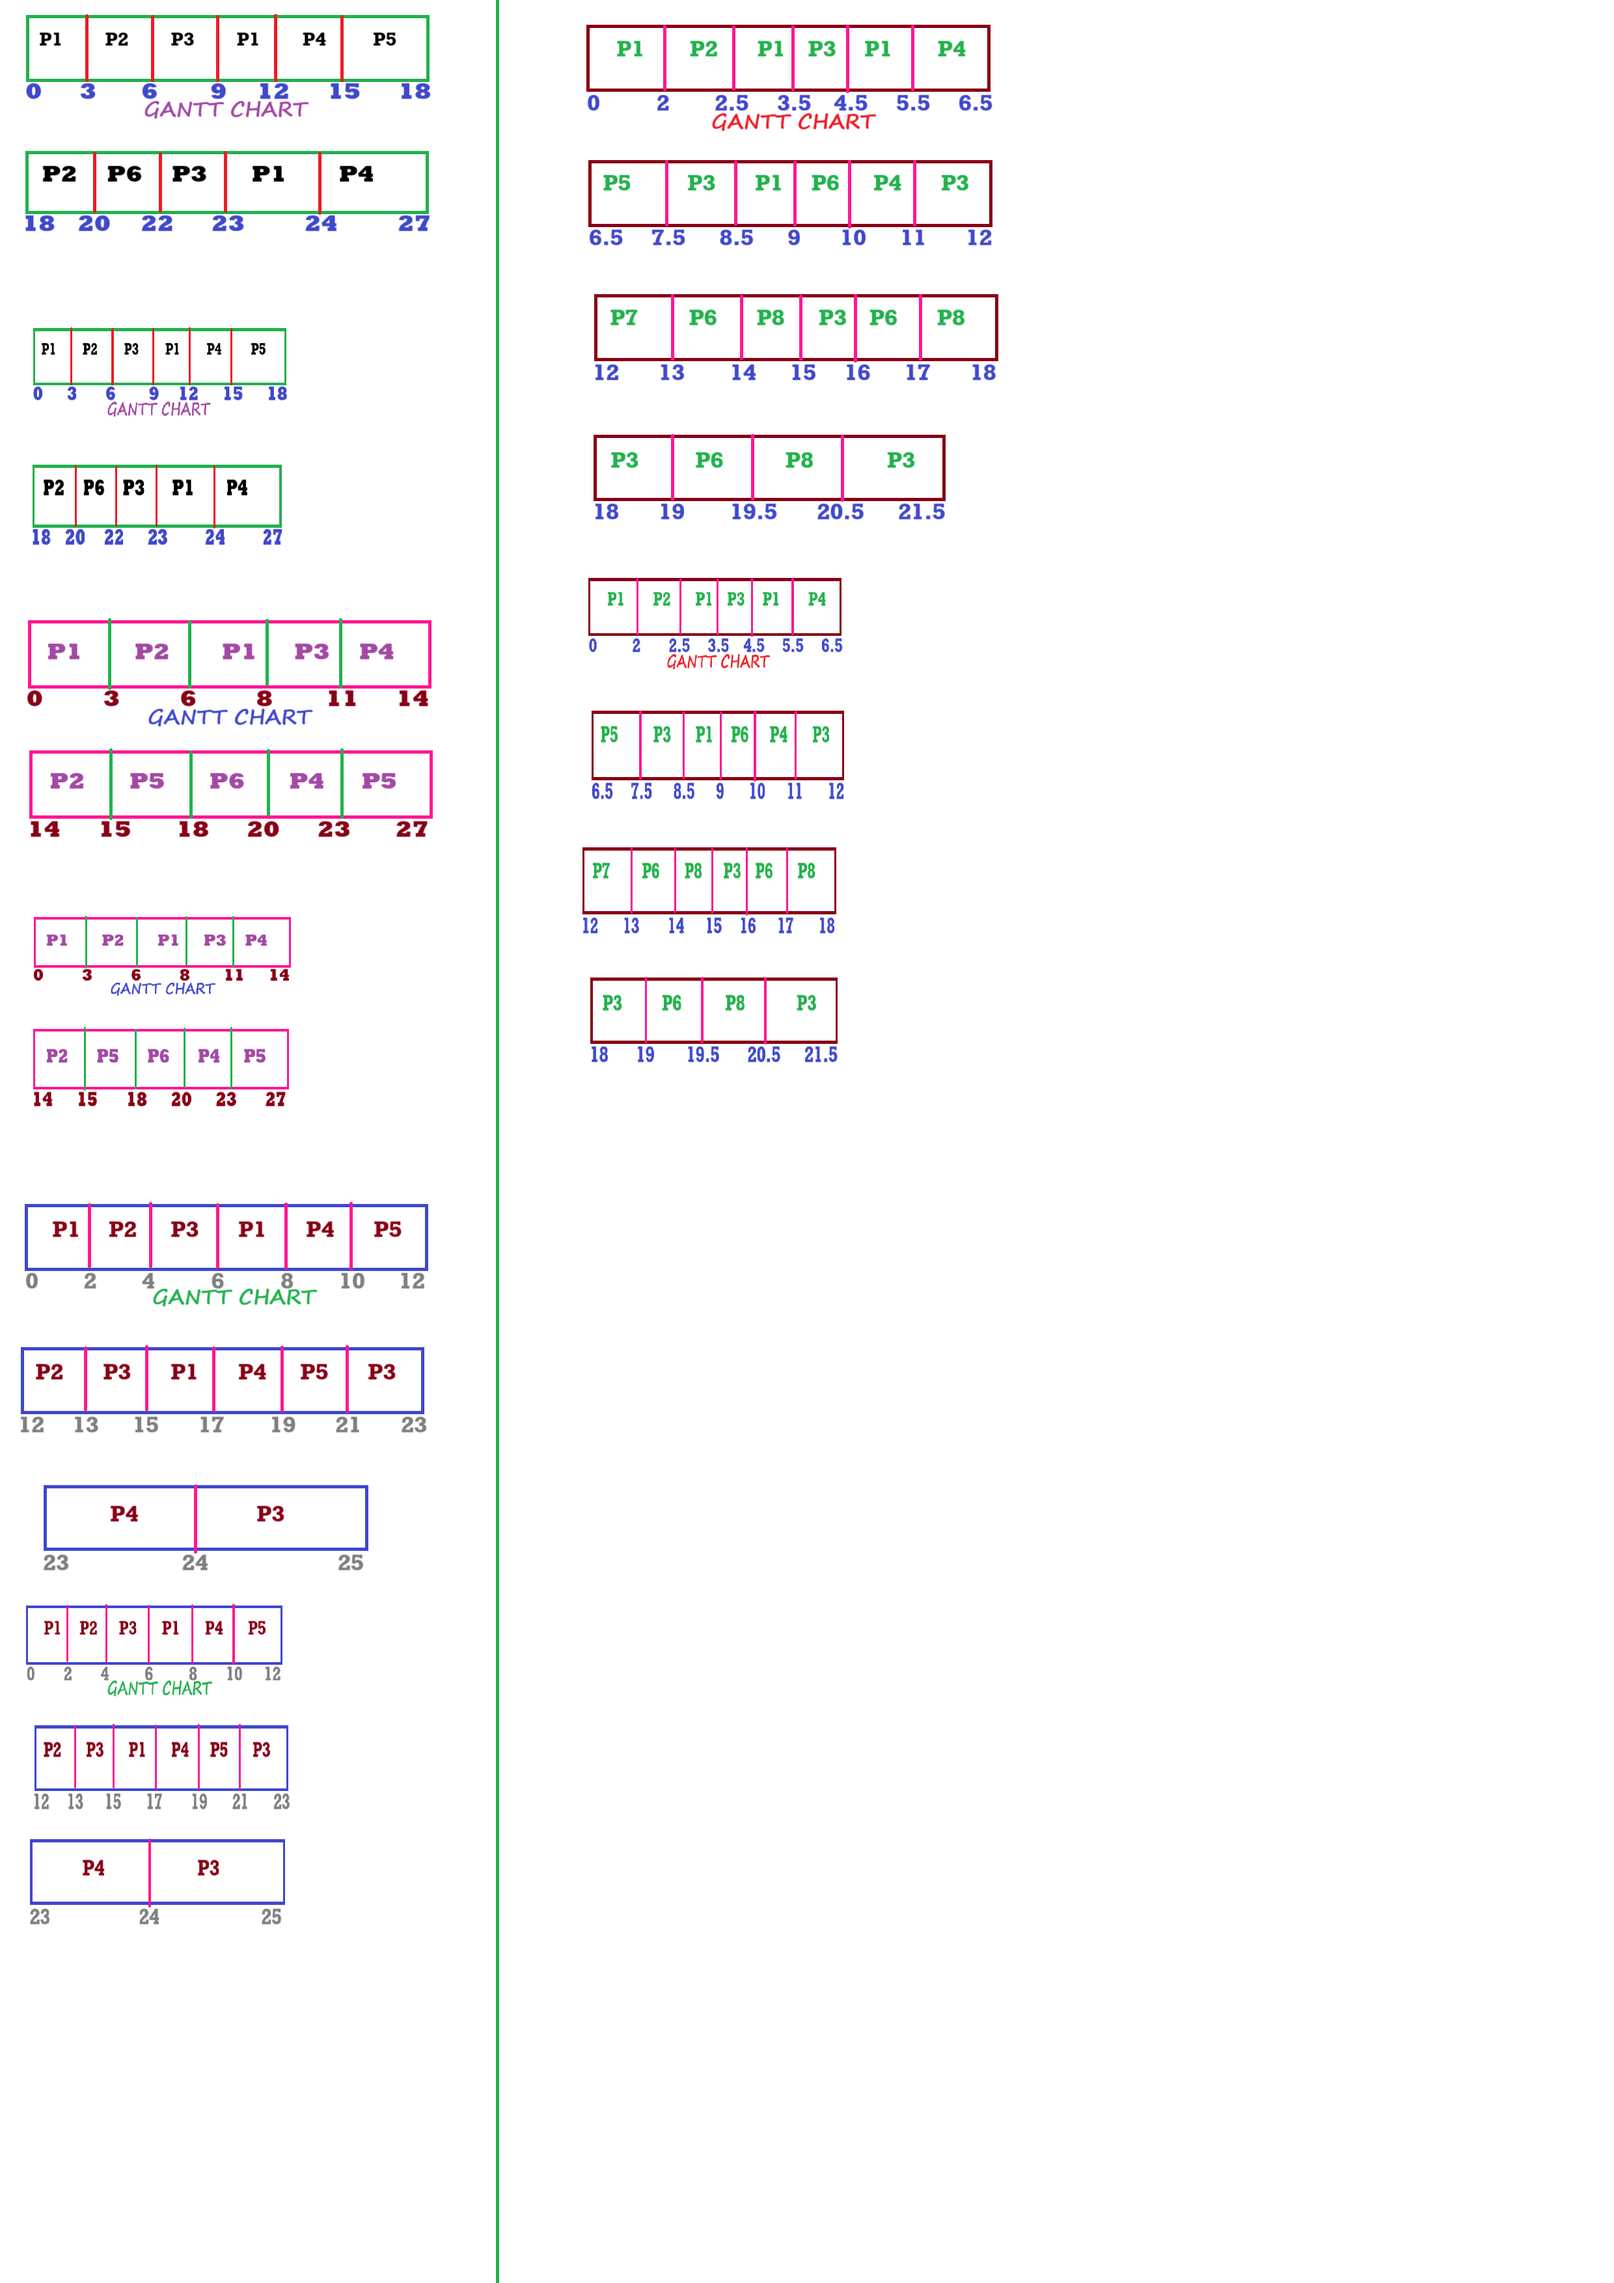
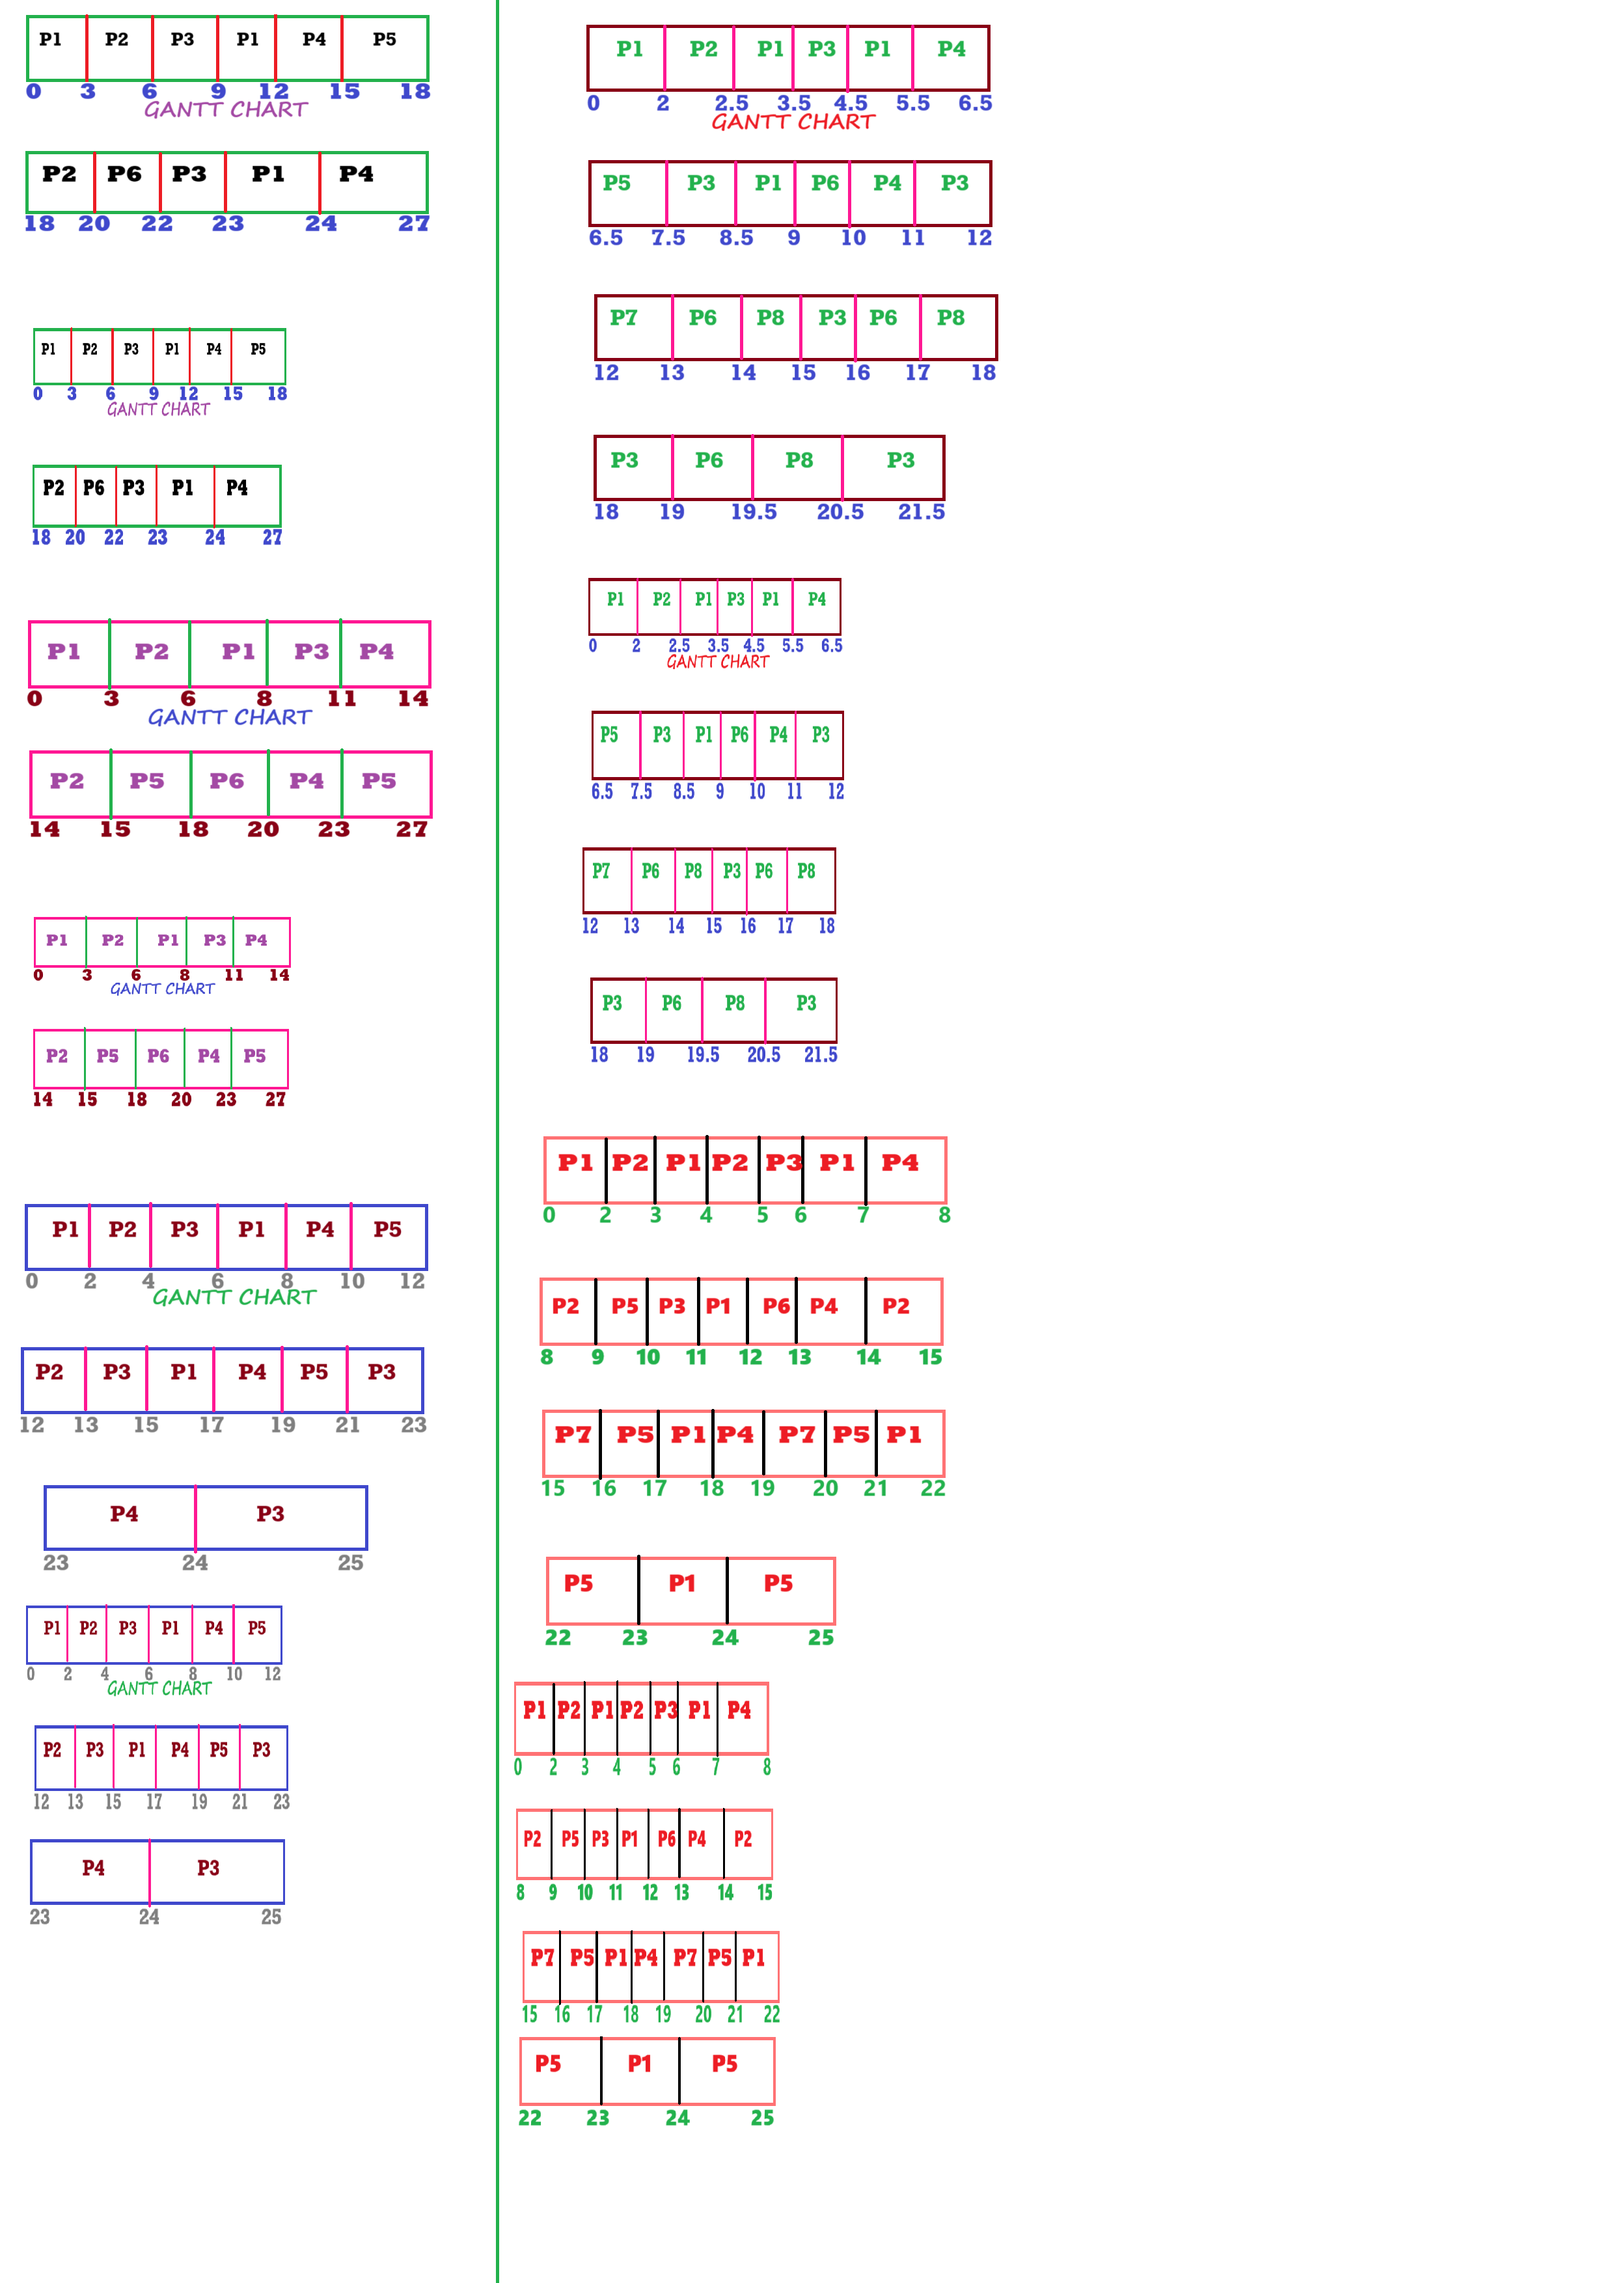
RR2.PNG AND RR3.html is updated

Changed region(s): [[0.3105, 0.6836, 0.5278, 0.9322], [0.3415, 0.5593, 0.5899, 0.6525], [0.3415, 0.4971, 0.5899, 0.5282]]

diff --git a/sub_modules/os/scheduling_algorithms/RR3.html b/sub_modules/os/scheduling_algorithms/RR3.html
@@ -13,11 +13,15 @@
       #RR1_1,
       #RR1_2,
       #RR1_3,
-      #RR1_4 {
+      #RR1_4,
+      #RR2_1,
+      #RR2_2,
+      #RR2_3,
+      #RR2_4 {
         height: 180px;
         width: 630px;
         object-fit: none;
-        border: 1px solid red;
+        /* border: 1px solid red; */
       }
       #RR1_1 {
         object-position: -897px -32px;
@@ -31,11 +35,27 @@
       #RR1_4 {
         object-position: -887px -643px;
       }
+      #RR2_1 {
+        object-position: -831px -1732px;
+      }
+      #RR2_2 {
+        object-position: -826px -1952px;
+      }
+      #RR2_3 {
+        object-position: -829px -2154px;
+      }
+      #RR2_4 {
+        object-position: -829px -2376px;
+      }
       @media (width<=770px) {
         #RR1_1,
         #RR1_2,
         #RR1_3,
-        #RR1_4 {
+        #RR1_4,
+        #RR2_1,
+        #RR2_2,
+        #RR2_3,
+        #RR2_4 {
           height: 150px;
           width: 400px;
         }
@@ -50,6 +70,18 @@
         }
         #RR1_4 {
           object-position: -899px -1498px;
+        }
+        #RR2_1 {
+          object-position: -787px -2582px;
+        }
+        #RR2_2 {
+          object-position: -791px -2776px;
+        }
+        #RR2_3 {
+          object-position: -801px -2965px;
+        }
+        #RR2_4 {
+          object-position: -796px -3126px;
         }
       }
     </style>
@@ -284,6 +316,165 @@
             <p>
               Average Waiting Time = (5.5 + 0 + 12.5 + 5 + 2.5 + 10 + 2 + 6.5) /
               8 = 5.5
+            </p>
+          </div>
+        </div>
+        <div id="question13">
+          <div class="question">
+            <h2>
+              Question 12: consider the following set of processes, with the
+              length of the cpu burst time given in millisecond. Draw Gantt
+              charts illustrating the execution of these processes using Round
+              Robin (quantum = 1) scheduling. what is turn around time and
+              waiting time of each of the processes.
+            </h2>
+            <table border="1" class="table table-bordered">
+              <tr>
+                <th>Process</th>
+                <th>Arrival Time</th>
+                <th>Burst Time</th>
+              </tr>
+              <tr>
+                <td>P1</td>
+                <td>0</td>
+                <td>8</td>
+              </tr>
+              <tr>
+                <td>P2</td>
+                <td>2</td>
+                <td>4</td>
+              </tr>
+              <tr>
+                <td>P3</td>
+                <td>4</td>
+                <td>2</td>
+              </tr>
+              <tr>
+                <td>P4</td>
+                <td>5</td>
+                <td>3</td>
+              </tr>
+              <tr>
+                <td>P5</td>
+                <td>6</td>
+                <td>5</td>
+              </tr>
+              <tr>
+                <td>P6</td>
+                <td>8</td>
+                <td>1</td>
+              </tr>
+              <tr>
+                <td>P7</td>
+                <td>10</td>
+                <td>2</td>
+              </tr>
+            </table>
+          </div>
+
+          <div class="solution">
+            <h3>Solution:</h3>
+            <p>Given Time Quantum: 1.0</p>
+
+            <h4>Formulas:</h4>
+            <ul>
+              <li>Turnaround Time (TAT) = Completion Time - Arrival Time</li>
+              <li>Waiting Time (WT) = Turnaround Time - Burst Time</li>
+            </ul>
+
+            <h4>Gantt Chart</h4>
+            <img
+              alt="Round Robin SCHEDULING | Question 13 Solution | Gantt Chart"
+              title="Round Robin SCHEDULING | Question 13 Solution | Gantt Chart"
+              id="RR2_1"
+              srcset=""
+            />
+            <img
+              alt="Round Robin SCHEDULING | Question 13 Solution | Gantt Chart"
+              title="Round Robin SCHEDULING | Question 13 Solution | Gantt Chart"
+              id="RR2_2"
+              srcset=""
+            />
+            <img
+              alt="Round Robin SCHEDULING | Question 13 Solution | Gantt Chart"
+              title="Round Robin SCHEDULING | Question 13 Solution | Gantt Chart"
+              id="RR2_3"
+              srcset=""
+            />
+            <img
+              alt="Round Robin SCHEDULING | Question 13 Solution | Gantt Chart"
+              title="Round Robin SCHEDULING | Question 13 Solution | Gantt Chart"
+              id="RR2_4"
+              srcset=""
+            />
+
+            <h4>Calculation:</h4>
+            <table border="1" class="table table-bordered">
+              <tr>
+                <th>Process</th>
+
+                <th>Completion Time</th>
+                <th>Turnaround Time</th>
+                <th>Waiting Time</th>
+              </tr>
+              <tr>
+                <td>P1</td>
+
+                <td>24</td>
+                <td>24 - 0 = 24</td>
+                <td>24 - 8 = 16</td>
+              </tr>
+              <tr>
+                <td>P2</td>
+
+                <td>15</td>
+                <td>15 - 2 = 13</td>
+                <td>13 - 4 = 9</td>
+              </tr>
+              <tr>
+                <td>P3</td>
+
+                <td>11</td>
+                <td>11 - 4 = 7</td>
+                <td>7 - 2 = 5</td>
+              </tr>
+              <tr>
+                <td>P4</td>
+
+                <td>19</td>
+                <td>19 - 5 = 14</td>
+                <td>14 - 3 = 11</td>
+              </tr>
+              <tr>
+                <td>P5</td>
+
+                <td>25</td>
+                <td>25 - 6 = 19</td>
+                <td>19 - 5 = 14</td>
+              </tr>
+              <tr>
+                <td>P6</td>
+
+                <td>13</td>
+                <td>13 - 8 = 5</td>
+                <td>5 - 1 = 4</td>
+              </tr>
+              <tr>
+                <td>P7</td>
+
+                <td>20</td>
+                <td>20 - 10 = 10</td>
+                <td>10 - 2 = 8</td>
+              </tr>
+            </table>
+
+            <p>
+              Average Turnaround Time = (24 + 13 + 7 + 14 + 19 + 5 + 10 ) / 7 =
+              13.14
+            </p>
+
+            <p>
+              Average Waiting Time = (16 + 9 + 5 + 11 + 14 + 4 + 8 ) / 7 = 8.42
             </p>
           </div>
         </div>

diff --git a/sub_modules/os/memory_management/Buddy_system.html b/sub_modules/os/memory_management/Buddy_system.html
@@ -5,7 +5,7 @@
 
     <meta charset="UTF-8" />
     <meta name="viewport" content="width=device-width, initial-scale=1.0" />
-    <!DOCTYPE html>
+
 
     <title>Buddy System in Operating Systems - Questions and Answers</title>
     <meta
